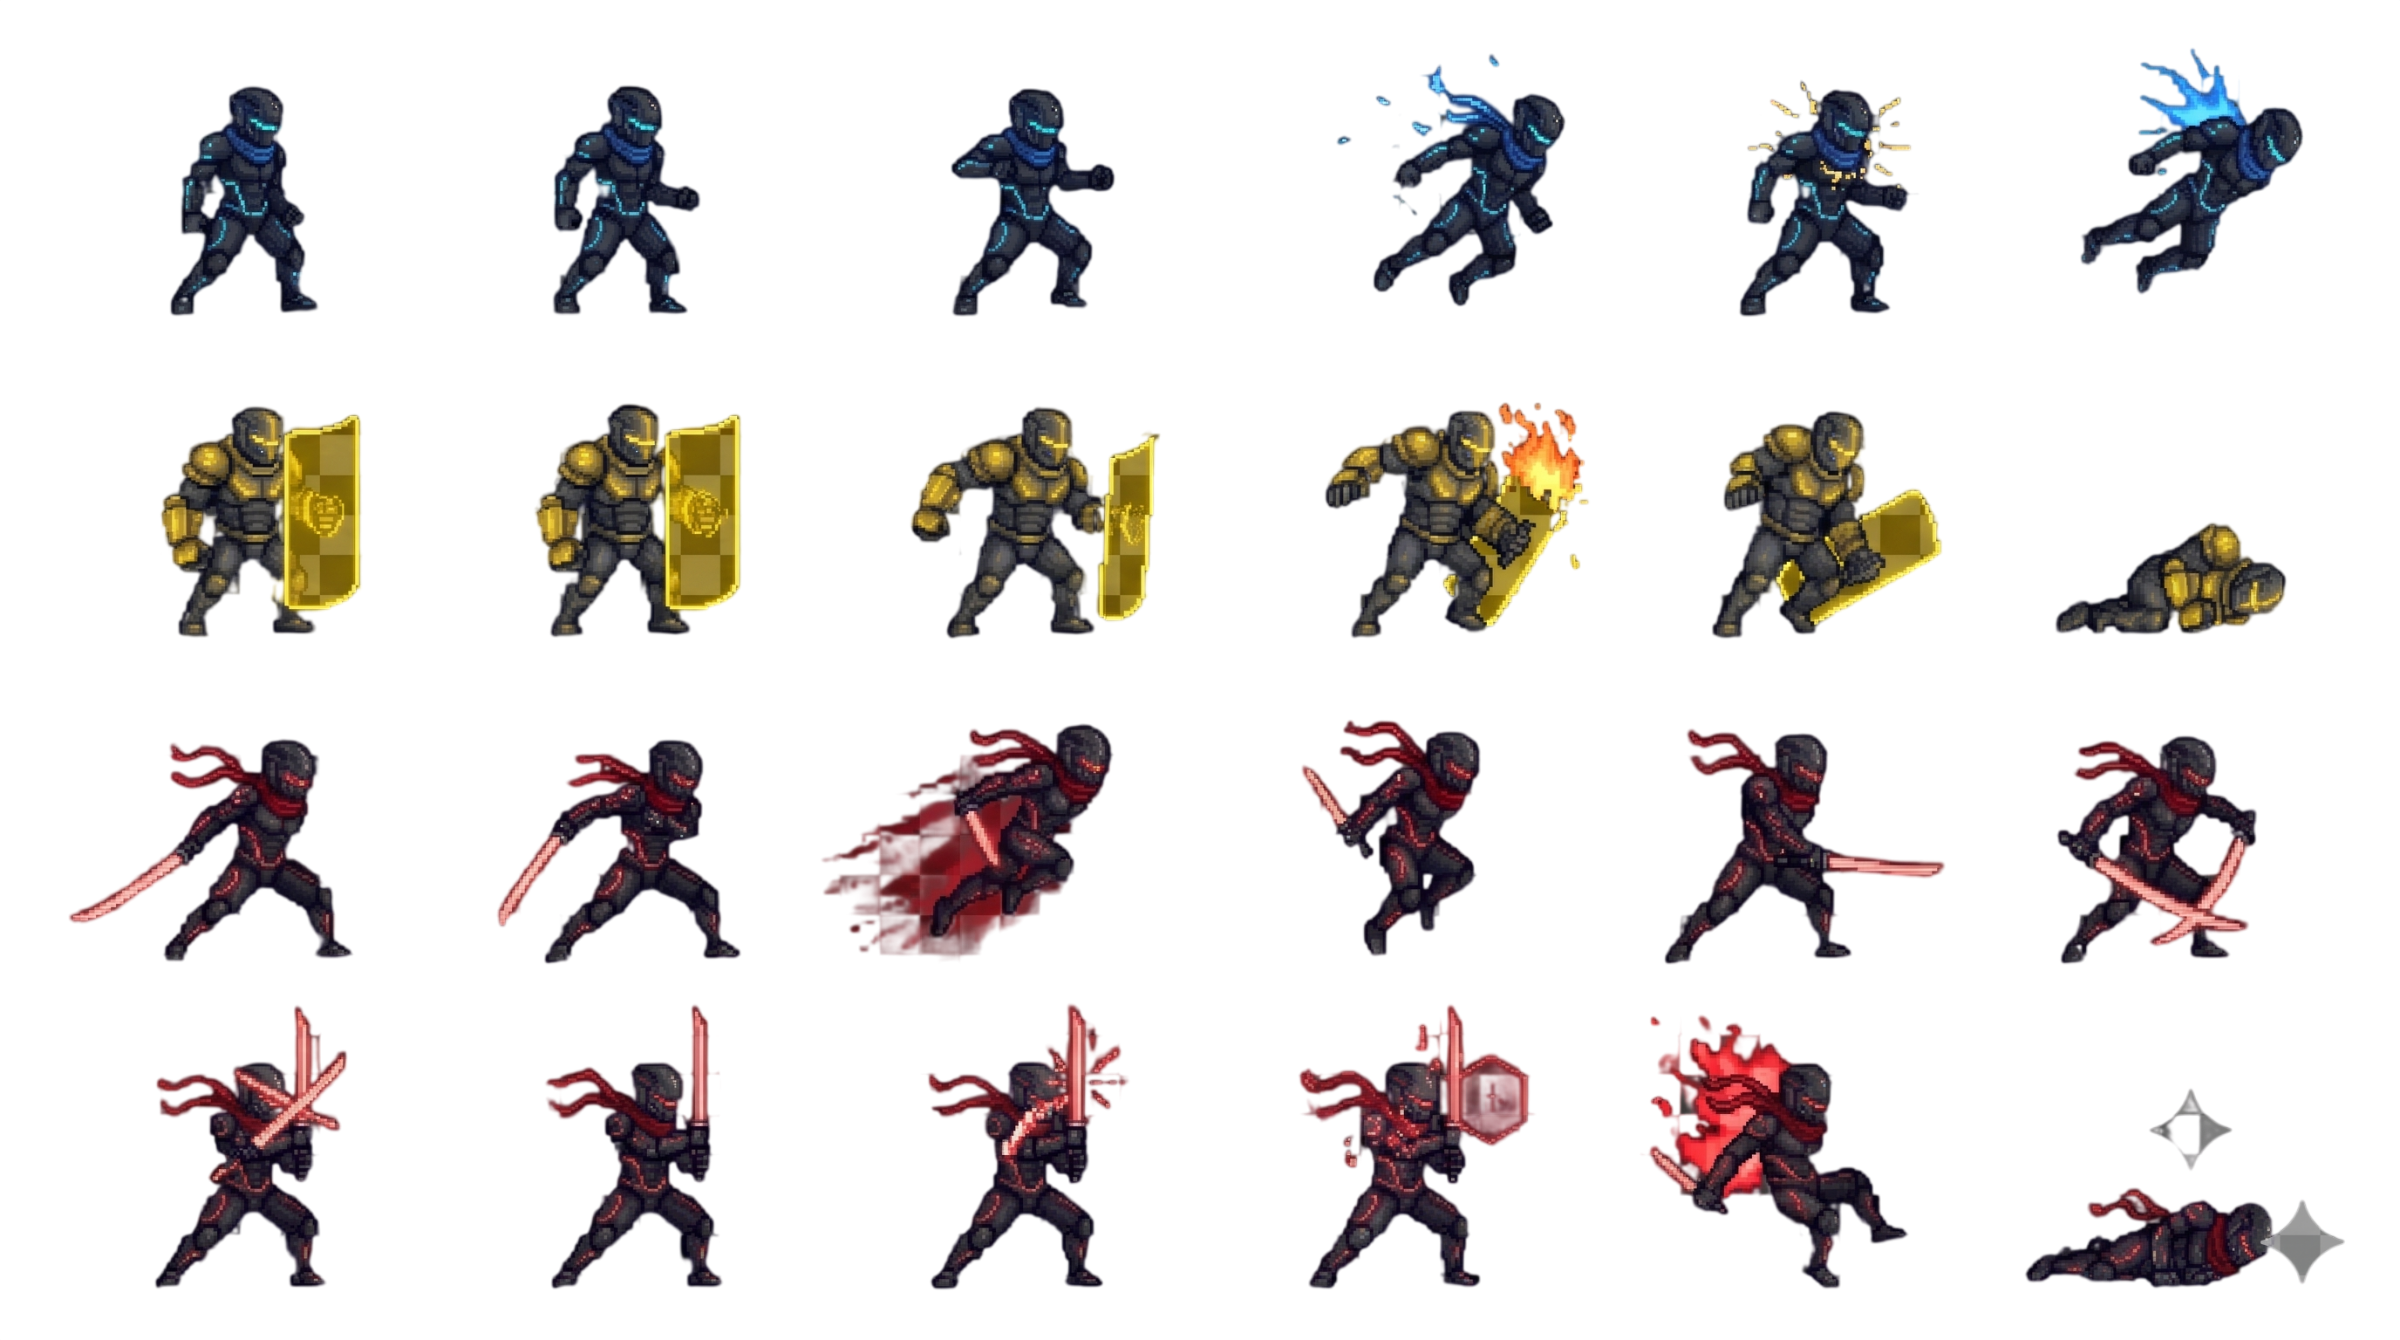
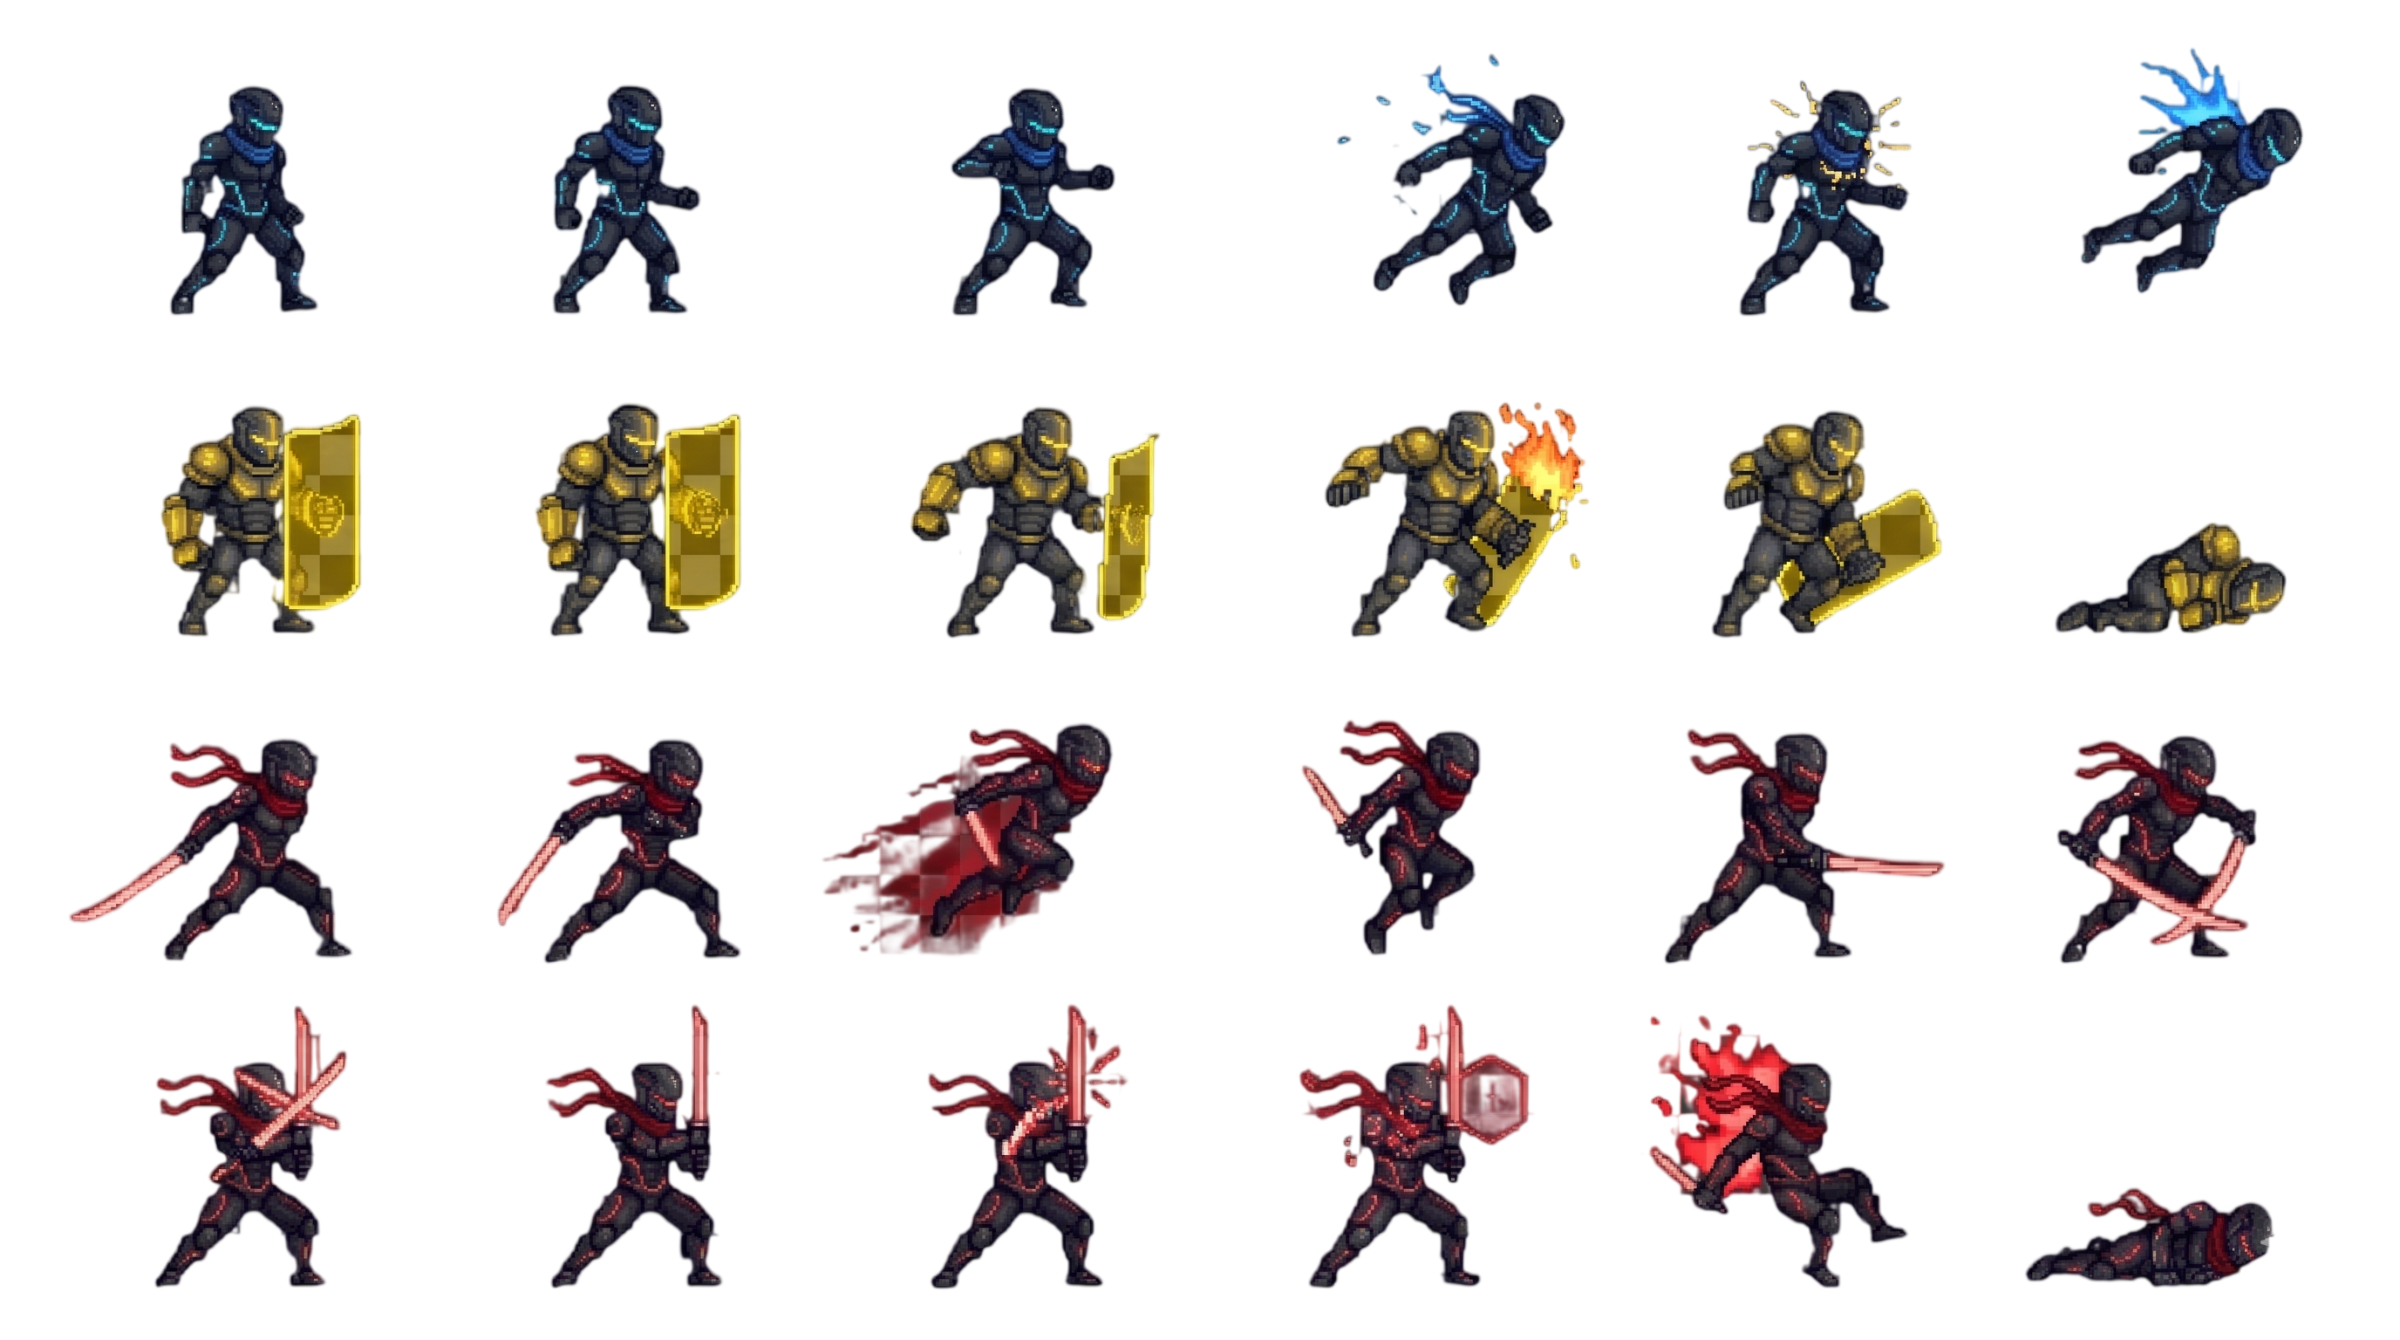
플레이어 체력 구현 및 노란적 구현

diff --git a/enemy.py b/enemy.py
@@ -4,7 +4,6 @@ from pico2d import load_image
 FRAME_W = 400
 FRAME_H = 335
 FRAME_COUNT = 3
-KNOCKDOWN_FRAMES = (4, 3, 5)
 KNOCKDOWN_FRAME_DURATION = 0.12
 DRAW_W = 220
 DRAW_H = 184
@@ -13,12 +12,18 @@ HITBOX_HALF_H = 55
 
 
 class Enemy:
+    SPEED = 360
+    SPRITE_ROW = 0
+    KNOCKDOWN_FRAMES = (4, 3, 5)
+
     def __init__(self, target_x, y):
         self.image = load_image('resources/enemy.png')
         self.x = 1380
         self.y = y
         self.target_x = target_x
-        self.speed = 360
+        self.speed = self.SPEED
+        self.sprite_row = self.SPRITE_ROW
+        self.knockdown_frames = self.KNOCKDOWN_FRAMES
         self.frame = 0.0
         self.state = 'APPROACH'
         self.knockdown_elapsed = 0.0
@@ -27,7 +32,7 @@ class Enemy:
         if self.state == 'KNOCKED_DOWN':
             self.knockdown_elapsed = min(
                 self.knockdown_elapsed + dt,
-                len(KNOCKDOWN_FRAMES) * KNOCKDOWN_FRAME_DURATION
+                len(self.knockdown_frames) * KNOCKDOWN_FRAME_DURATION
             )
             return
         if self.state != 'APPROACH':
@@ -41,38 +46,52 @@ class Enemy:
         return (
             self.state == 'KNOCKED_DOWN' and
             self.knockdown_elapsed >=
-            len(KNOCKDOWN_FRAMES) * KNOCKDOWN_FRAME_DURATION
+            len(self.knockdown_frames) * KNOCKDOWN_FRAME_DURATION
         )
 
     def hit_by_slash(self, hitbox):
+        return self.knock_down_if_overlapping(hitbox)
+
+    def hit_by_parry(self, hitbox):
+        return False
+
+    def knock_down_if_overlapping(self, hitbox):
         if self.state != 'APPROACH':
             return False
 
+        if not self.overlaps_hitbox(hitbox):
+            return False
+
+        self.knock_down()
+        return True
+
+    def knock_down(self):
+        self.state = 'KNOCKED_DOWN'
+        self.knockdown_elapsed = 0.0
+
+    def overlaps_hitbox(self, hitbox):
         left, bottom, right, top = hitbox
         enemy_left = self.x - HITBOX_HALF_W
         enemy_right = self.x + HITBOX_HALF_W
         enemy_bottom = self.y - HITBOX_HALF_H
         enemy_top = self.y + HITBOX_HALF_H
-        if (enemy_left > right or enemy_right < left or
-                enemy_bottom > top or enemy_top < bottom):
-            return False
-
-        self.state = 'KNOCKED_DOWN'
-        self.knockdown_elapsed = 0.0
-        return True
+        return not (
+            enemy_left > right or enemy_right < left or
+            enemy_bottom > top or enemy_top < bottom
+        )
 
     def draw(self):
         if self.state == 'KNOCKED_DOWN':
             knockdown_idx = min(
                 int(self.knockdown_elapsed / KNOCKDOWN_FRAME_DURATION),
-                len(KNOCKDOWN_FRAMES) - 1
+                len(self.knockdown_frames) - 1
             )
-            frame_idx = KNOCKDOWN_FRAMES[knockdown_idx]
+            frame_idx = self.knockdown_frames[knockdown_idx]
         else:
             frame_idx = int(self.frame)
         self.image.clip_composite_draw(
             frame_idx * FRAME_W,
-            self.image.h - FRAME_H,
+            self.image.h - (self.sprite_row + 1) * FRAME_H,
             FRAME_W,
             FRAME_H,
             0,
@@ -82,3 +101,15 @@ class Enemy:
             DRAW_W,
             DRAW_H
         )
+
+
+class YellowEnemy(Enemy):
+    SPEED = Enemy.SPEED * 0.8
+    SPRITE_ROW = 1
+    KNOCKDOWN_FRAMES = (3, 4, 5)
+
+    def hit_by_slash(self, hitbox):
+        return False
+
+    def hit_by_parry(self, hitbox):
+        return self.knock_down_if_overlapping(hitbox)

diff --git a/player.py b/player.py
@@ -2,7 +2,7 @@ from pico2d import load_image, draw_rectangle
 from pico2d import SDL_KEYDOWN, SDLK_LEFT, SDLK_RIGHT, SDLK_a, SDLK_d
 
 SPRITE_LEFT_TABLE = [
-    [87, 511, 971, 1387],          # 0행: IDLE (4프레임)
+    [65, 505, 971],                # 프레임 경계에 맞춰 IDLE 컷 간 칼끝 겹침 방지
     [55, 508, 1003, 1389, 1828],   # 1행: SLASH 1 (5프레임)
     [0, 490, 992, 1435, 1910],    # 2행: SLASH 2 (5프레임)
     [86, 538, 974, 1407, 1873]     # 3행: PARRY (5프레임)
@@ -17,12 +17,20 @@ SLASH_DRAW_OFFSETS = {
     (2, 4): 18,
 }
 
+IDLE_DRAW_OFFSETS = {
+    0: -11,
+    1: -3,
+}
+
 BASE_SHEET_W = 2752.0
 BASE_SHEET_H = 1536.0
 CLIP_W = 440
 CLIP_H = 384
 DRAW_W = 220
 DRAW_H = 192
+PLAYER_HITBOX_HALF_W = 40
+PLAYER_HITBOX_HALF_H = 55
+MAX_HEALTH = 3
 
 class Player:
     def __init__(self):
@@ -36,6 +44,8 @@ class Player:
         self.state = 'IDLE'
         self.frame = 0.0
         self.row = 0
+        self.max_health = MAX_HEALTH
+        self.health = self.max_health
 
     def start_slash(self, direction):
         self.dir = direction
@@ -95,6 +105,8 @@ class Player:
         flip = 'h' if self.dir == -1 else ''
         offset_dir = 15 if self.dir == 1 else -15
         draw_x = self.x + offset_dir + cam_x
+        if self.state == 'IDLE':
+            draw_x += self.dir * IDLE_DRAW_OFFSETS.get(frame_idx, 0)
         if self.state == 'SLASH':
             draw_x += self.dir * SLASH_DRAW_OFFSETS.get((self.row, frame_idx), 0)
 
@@ -116,6 +128,54 @@ class Player:
             self.y - 73,
             max(near_x, far_x),
             self.y + 65
+        )
+
+    def get_parry_hitbox(self):
+        if self.state != 'PARRY':
+            return None
+
+        near_x = self.x + self.dir * 50
+        far_x = self.x + self.dir * 160
+        return (
+            min(near_x, far_x),
+            self.y - 73,
+            max(near_x, far_x),
+            self.y + 65
+        )
+
+    def get_hitbox(self):
+        return (
+            self.x - PLAYER_HITBOX_HALF_W,
+            self.y - PLAYER_HITBOX_HALF_H,
+            self.x + PLAYER_HITBOX_HALF_W,
+            self.y + PLAYER_HITBOX_HALF_H
+        )
+
+    def take_damage(self):
+        if self.health <= 0:
+            return False
+
+        self.health -= 1
+        return True
+
+    def draw_health(self, cam_x=0, cam_y=0):
+        segment_w, segment_h, gap = 30, 12, 4
+        total_width = self.max_health * segment_w + (self.max_health - 1) * gap
+        left = self.x - total_width / 2 + cam_x
+        bottom = self.y + DRAW_H / 2 - 32 + cam_y
+        for index in range(self.max_health):
+            color = (220, 48, 48) if index < self.health else (70, 70, 70)
+            segment_left = left + index * (segment_w + gap)
+            draw_rectangle(
+                segment_left, bottom,
+                segment_left + segment_w, bottom + segment_h,
+                *color, filled=True
+            )
+
+        draw_rectangle(
+            left - 3, bottom - 3,
+            left + total_width + 3, bottom + segment_h + 3,
+            235, 235, 235
         )
 
     def draw_hit_zone(self, cam_x=0, cam_y=0):

diff --git a/play_state.py b/play_state.py
@@ -1,8 +1,8 @@
 from pico2d import clear_canvas, update_canvas, get_events
-from pico2d import SDL_QUIT, SDL_KEYDOWN, SDLK_ESCAPE, SDLK_q
+from pico2d import SDL_QUIT, SDL_KEYDOWN, SDLK_ESCAPE, SDLK_q, SDLK_e
 import game_framework
 from player import Player
-from enemy import Enemy
+from enemy import Enemy, YellowEnemy
 
 stage_timer = 0.0
 game_speed = 1.0
@@ -36,7 +36,9 @@ def handle_events():
             if event.key == SDLK_ESCAPE:
                 game_framework.quit()
             elif event.key == SDLK_q:
-                enemies.append(Enemy(player.x + 120, player.y))
+                enemies.append(Enemy(player.x + 80, player.y))
+            elif event.key == SDLK_e:
+                enemies.append(YellowEnemy(player.x + 80, player.y))
         player.handle_event(event)
 
 def update():
@@ -44,11 +46,19 @@ def update():
     dt = game_framework.frame_time * game_speed
     stage_timer += dt
     player.update(dt)
-    hitbox = player.get_slash_hitbox()
+    slash_hitbox = player.get_slash_hitbox()
+    parry_hitbox = player.get_parry_hitbox()
+    player_hitbox = player.get_hitbox()
     for enemy in enemies:
         enemy.update(dt)
-        if hitbox is not None:
-            enemy.hit_by_slash(hitbox)
+        if slash_hitbox is not None:
+            enemy.hit_by_slash(slash_hitbox)
+        if parry_hitbox is not None:
+            enemy.hit_by_parry(parry_hitbox)
+        if (enemy.state == 'APPROACH' and
+                enemy.overlaps_hitbox(player_hitbox)):
+            player.take_damage()
+            enemy.knock_down()
     enemies[:] = [enemy for enemy in enemies if not enemy.is_finished]
 
 def draw():
@@ -57,4 +67,5 @@ def draw():
         enemy.draw()
     player.draw_hit_zone()
     player.draw()
+    player.draw_health()
     update_canvas()

diff --git a/README.md b/README.md
@@ -11,6 +11,7 @@
 ## 2. 조작 방법 (4-Key System)
 * **좌/우 방향키 (`←`, `→`):** 해당 방향의 일반 적(파란색) 즉시 베기 및 무력화된 적 반격
 * **A / D 키:** 해당 방향의 강적(노란 방패병, 빨간 암살자) 공격 쳐내기 (패링)
+* **Q / E 키 (테스트용):** 파란 적 / 노란 적 생성
 * **ESC:** 게임 종료
 
 ## 3. 핵심 기능 및 기술 설계
